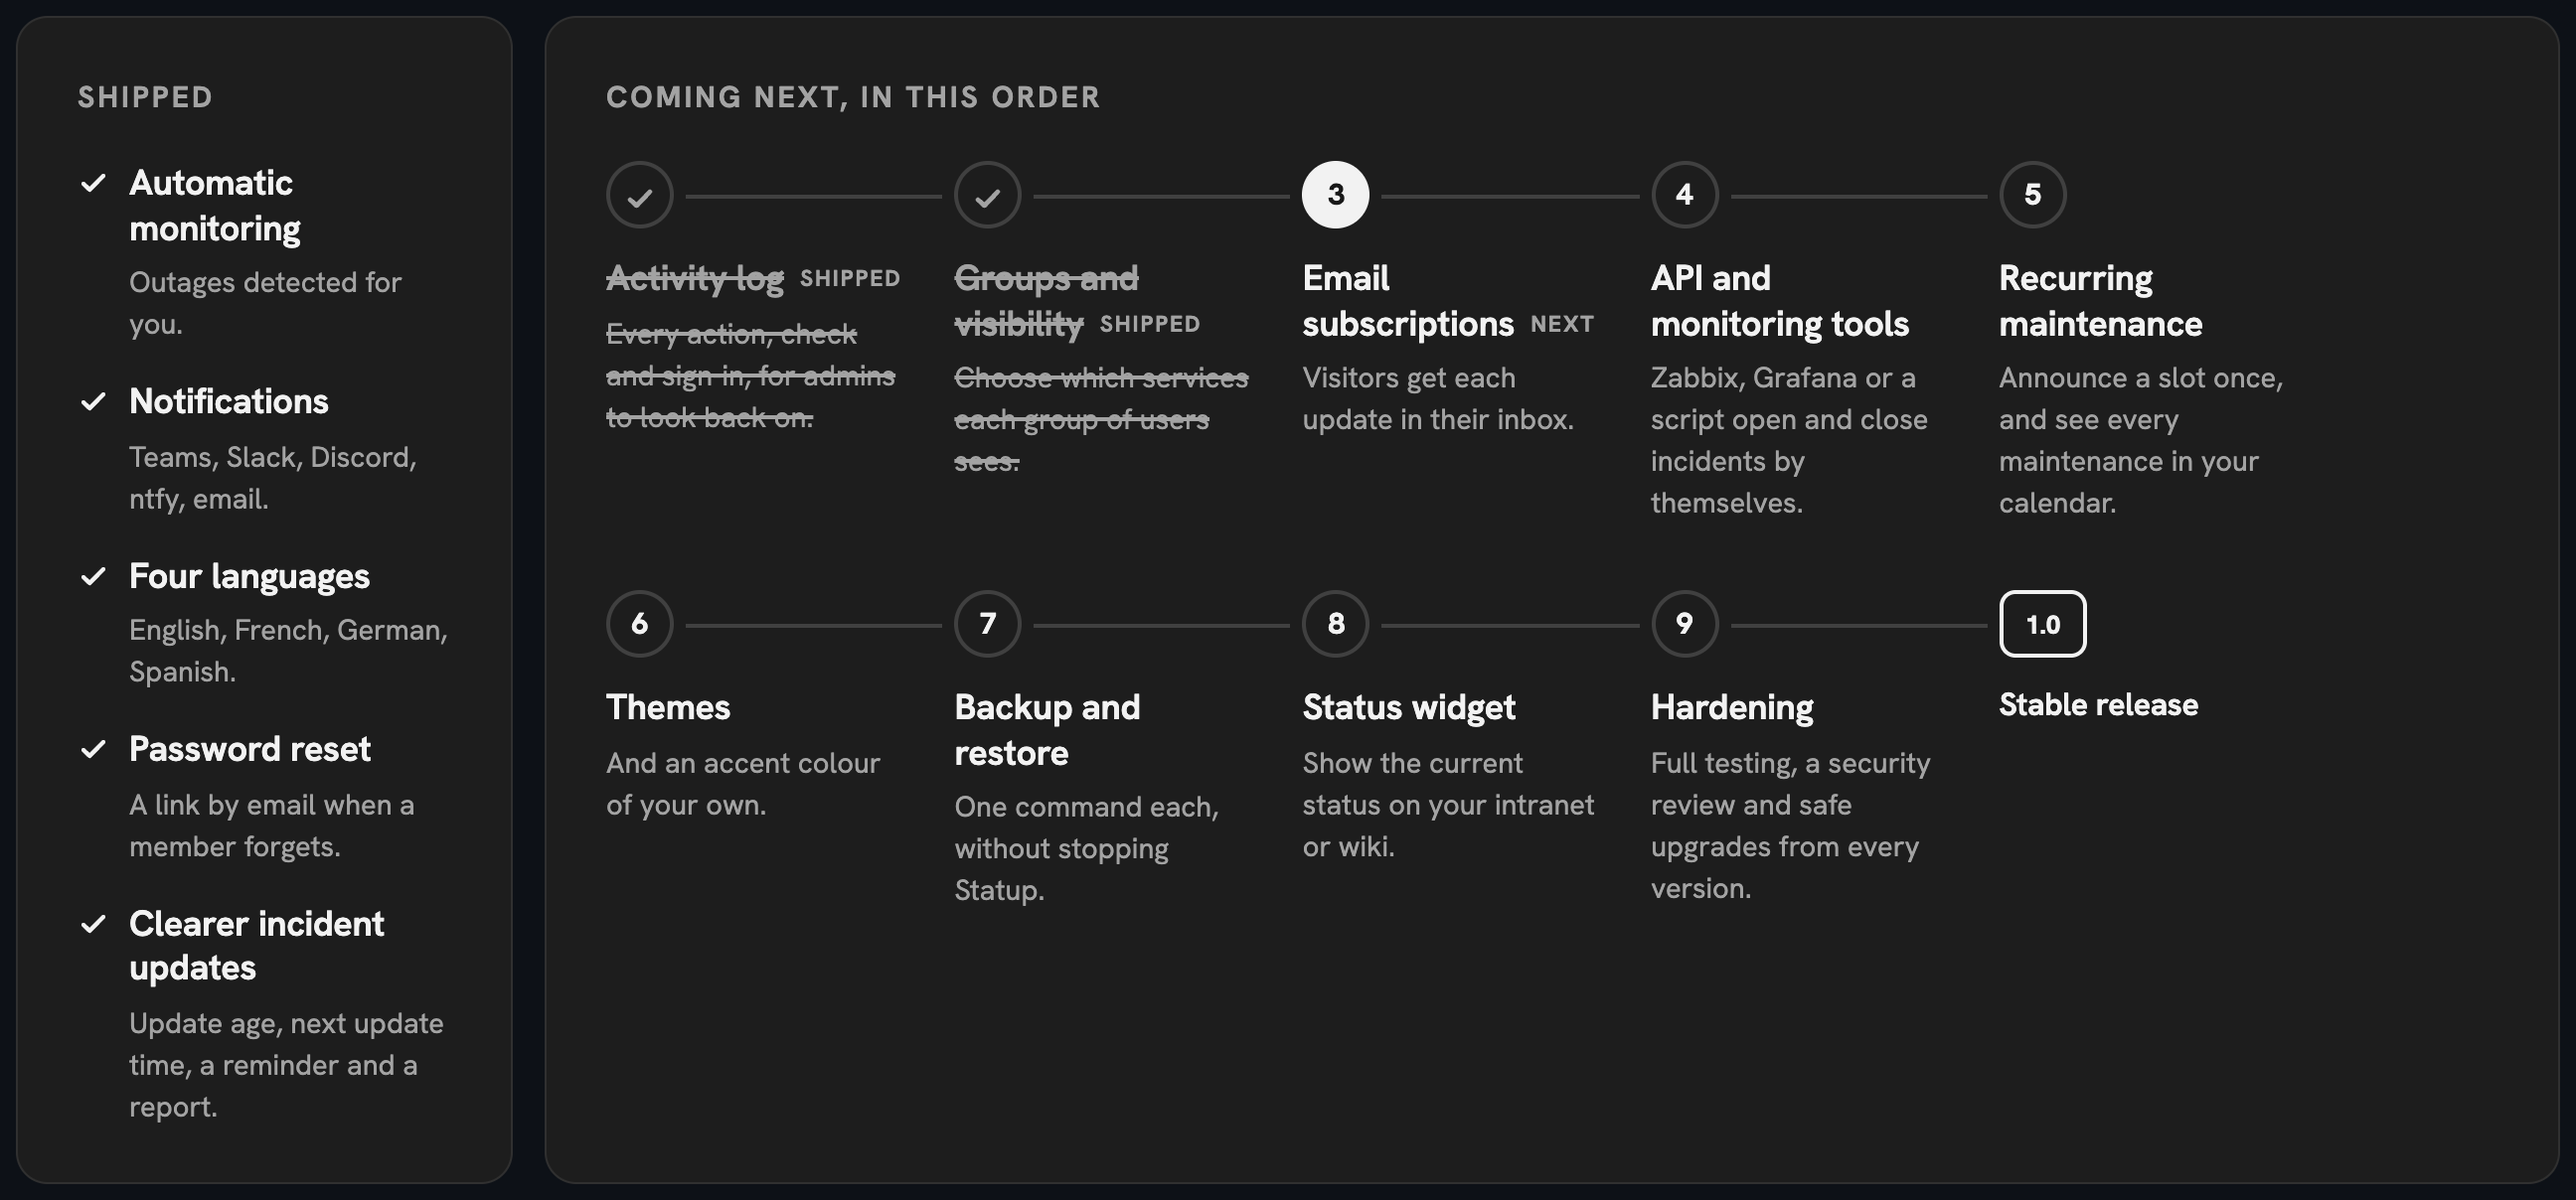
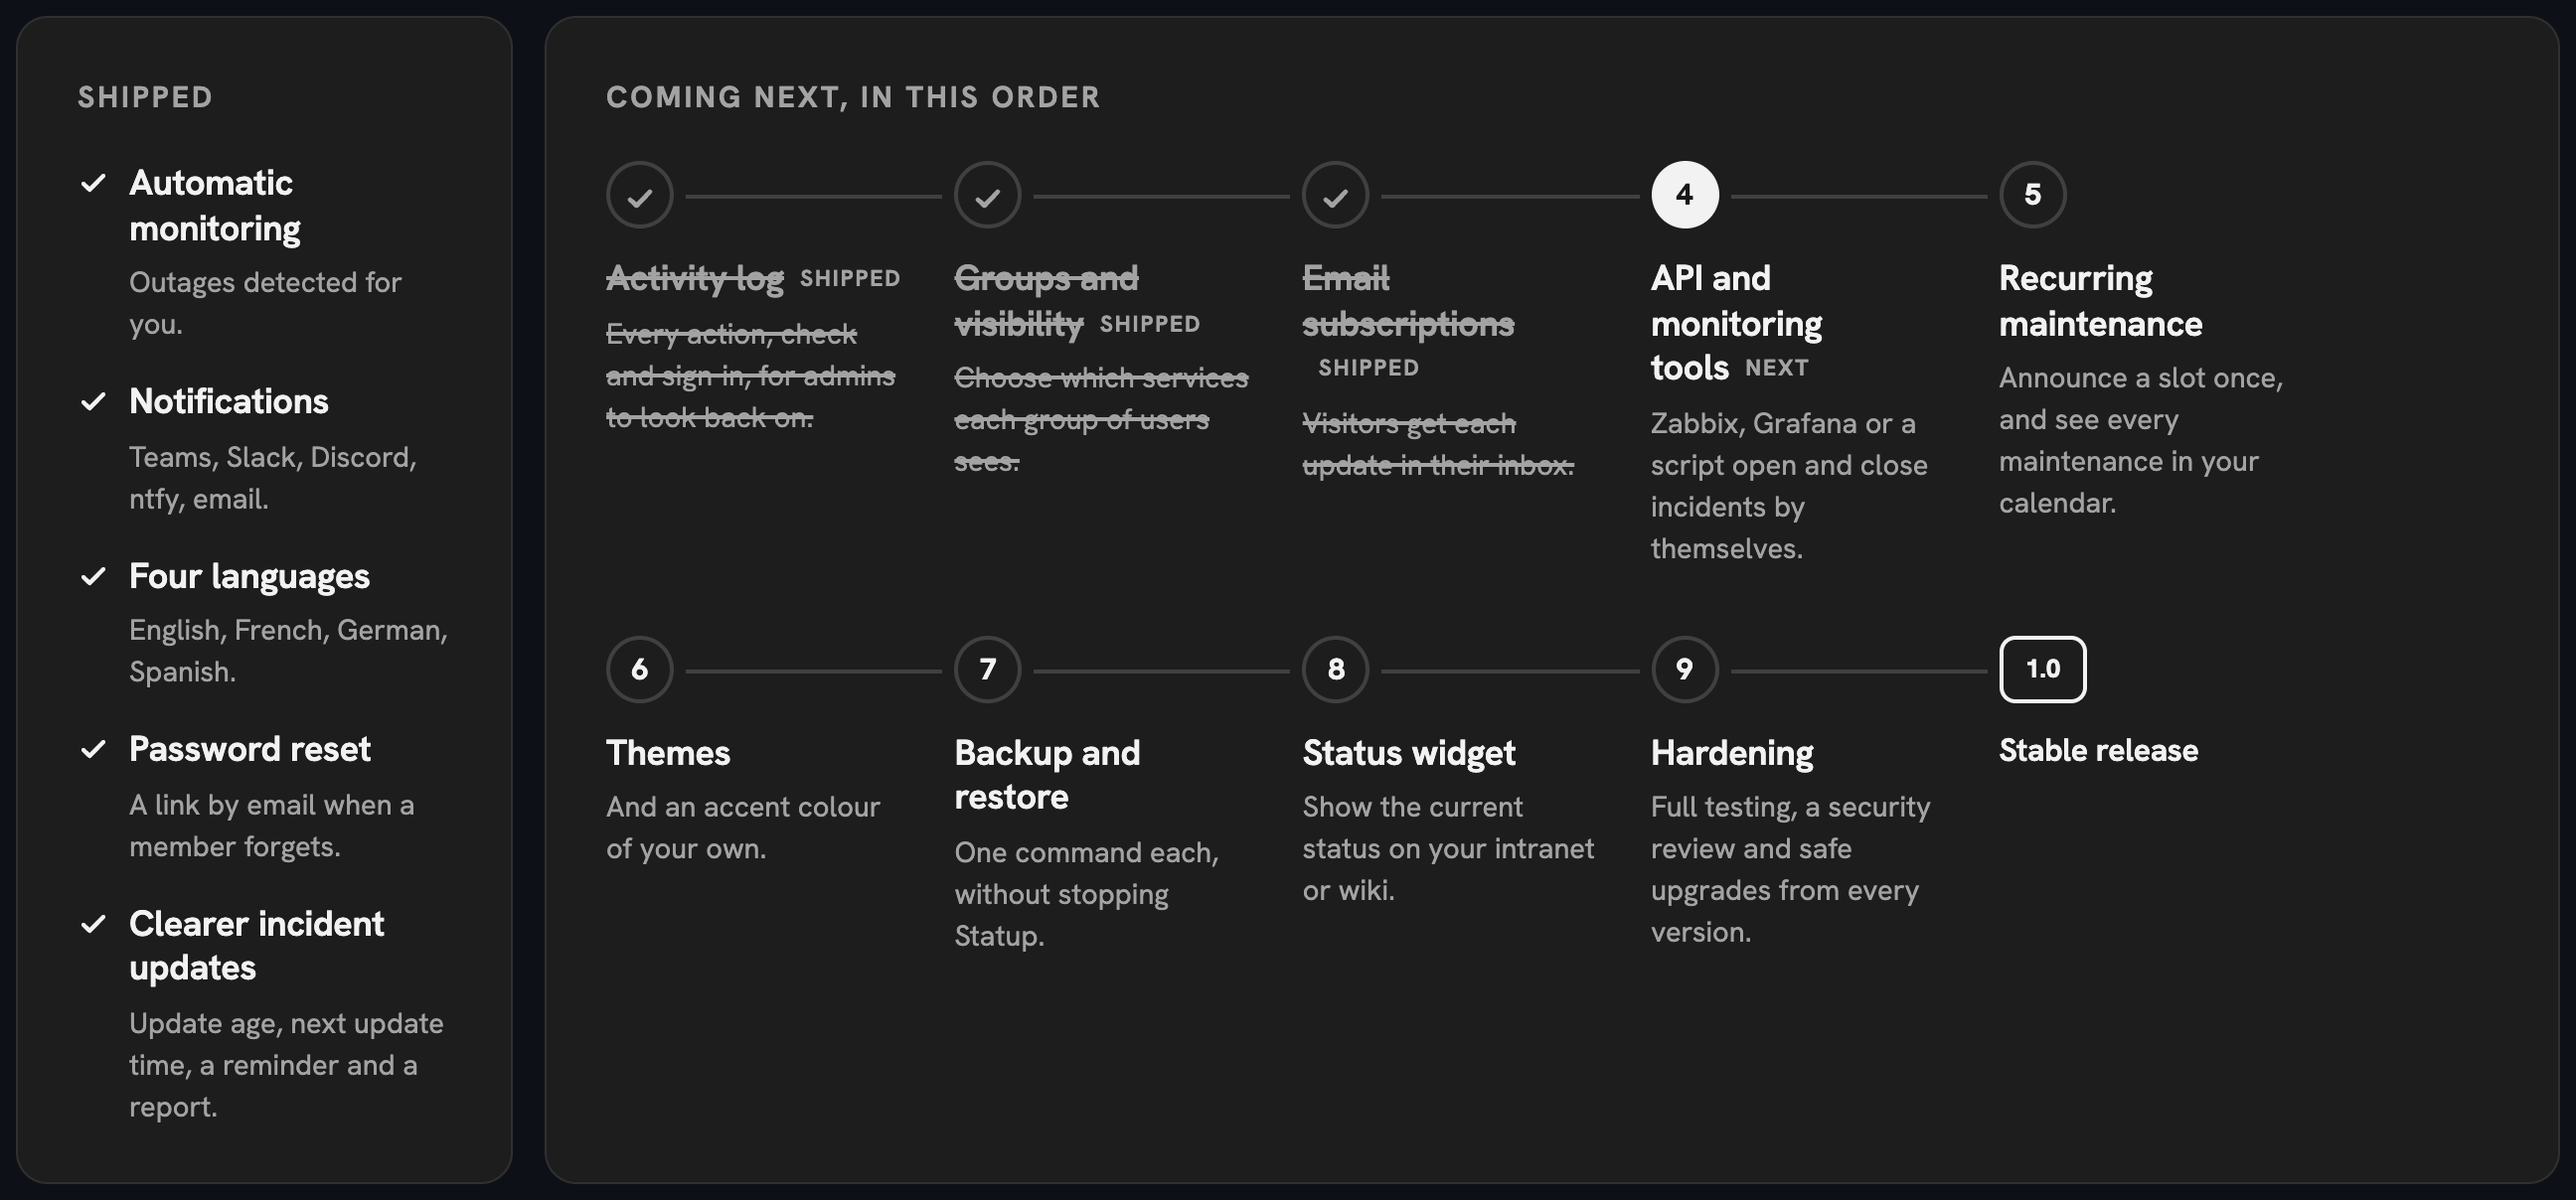
release 0.8.0

diff --git a/README.md b/README.md
@@ -46,7 +46,7 @@ It is a status page you host yourself. Whoever runs a service posts, once, what 
 - **Notices first**: every minute, Statup checks that a site or a server answers, and shows an outage after three minutes without an answer, or the delay set for that service.
 - **Quick to publish**: dated updates, reusable templates and a short report once an incident is resolved; an outage spotted by the checks is declared in one click.
 - **Tells people where they are**: each incident, maintenance and announcement posted to Microsoft Teams, Slack, Google Chat, Discord or Mattermost, to phones through ntfy, by email, or to any tool through a webhook, in the language of each channel.
-- **Easy to follow**: search and filters, a side panel to read without leaving the list, and an Atom feed for feed readers.
+- **Easy to follow**: search and filters, a side panel to read without leaving the list, an Atom feed for feed readers, and an email at each update for those who subscribe.
 - **A record of everything**: a Journal for administrators shows who changed what, sign-ins, outages with their reason and messages that did not leave, kept 90 days and exported as a CSV file.
 - **Your page, your way**: public or members only, your name and logo, blocks you arrange on the page; French, English, German and Spanish, light and dark, accessible.
 
@@ -91,14 +91,14 @@ Add them from the **Team** page: they open the same address. For HTTPS and a nam
 
 <picture>
   <source media="(prefers-color-scheme: dark)" srcset=".github/assets/roadmap-dark.png">
-  <img src=".github/assets/roadmap.png" alt="Roadmap: shipped are automatic monitoring, notifications, four languages, password reset and clearer incident updates; step 1, the activity log, shipped in 0.6.0; step 2, groups and visibility, shipped in 0.7.0; coming next, in order, steps 3 to 9 listed below, then the stable 1.0 release" width="1296">
+  <img src=".github/assets/roadmap.png" alt="Roadmap: shipped are automatic monitoring, notifications, four languages, password reset and clearer incident updates; step 1, the activity log, shipped in 0.6.0; step 2, groups and visibility, shipped in 0.7.0; step 3, email subscriptions, shipped in 0.8.0; coming next, in order, steps 4 to 9 listed below, then the stable 1.0 release" width="1296">
 </picture>
 
 Planned, in this order, without dates:
 
 1. ~~**Activity log**: every action, check and sign-in, for administrators to look back on.~~ Shipped in 0.6.0.
 2. ~~**Groups and visibility**: choose which services and events each group of users sees.~~ Shipped in 0.7.0, with folders of services.
-3. **Email subscriptions**: visitors get each update in their inbox.
+3. ~~**Email subscriptions**: visitors get each update in their inbox.~~ Shipped in 0.8.0.
 4. **API and monitoring tools**: Zabbix, Grafana or a script open and close incidents by themselves.
 5. **Recurring maintenance**: announce a slot once, and see every maintenance in your calendar.
 6. **Themes** and an accent colour.

diff --git a/.github/CHANGELOG.md b/.github/CHANGELOG.md
@@ -2,7 +2,7 @@
 
 All notable changes to Statup are listed here. The project is pre-v1: until 1.0, a minor version may change the interface or the database, and the README asks you to back up before upgrading.
 
-## Unreleased
+## 0.8.0, 2026-10-25
 
 - Email subscriptions. On **Get notified**, a visitor types their address, ticks incidents, maintenance or announcements and confirms through the link emailed to them; a signed-in member subscribes at the address of their account, with nothing to confirm. Each one then receives an email when an incident is opened or a maintenance announced, at each update, when it ends, for its report and for each announcement, in their language and naming only the services they may see. Every email ends with an unsubscribe link, and mail clients may offer their own button when the page is served over https. Administrators see the subscribers from the Alerts page, can remove one, and open subscriptions to visitors there: they are closed on a new instance. Offered only with a mail server (`SMTP_HOST`); the database is upgraded on start.
 - One layout for every screen. A page head holds at most **Arrange** and **New** on the right, or the settings of the page's object in one grey line with **Change**; nothing sits under a title any more. Every list lives on a card whose head gives its title, its count and its one action: **New member** and **New channel** open their form at the head of their card, closed on arrival, and the count of the events list and the Journal moves into the head of their results, beside the Journal's **Export**. On the Services page, **Change order** becomes **Arrange**, as on the dashboard, and **New** offers a service or a folder; the icon library is reached from a service's icon choice, **Manage your icons**, and lists its icons as rows. A folder's name and visibility are saved together from **Change**, a group's **Rename** sits at the right of its name, and an event's report is edited from its own card. Row actions are words, **Disable** and **Delete** in red; cards share one inner edge and one head height; what opens shows the same arrow. Settings drops its help sentences, and the page access setting is called **Page access**, **Members only** or **Public**, everywhere.

diff --git a/documentation/fr/upgrading.md b/documentation/fr/upgrading.md
@@ -21,7 +21,7 @@ Les administrateurs voient la version en service dans les Paramètres, et la plu
 `latest` suit chaque nouvelle version. Pour ne mettre à jour que quand vous le décidez, remplacez `latest` par un numéro de version sous `image:` dans `docker-compose.yml` :
 
 ```yaml
-image: ghcr.io/karl-cta/statup:0.7.2
+image: ghcr.io/karl-cta/statup:0.8.0
 ```
 
 Chaque version et ce qu'elle a changé figurent dans les [notes de version](https://github.com/karl-cta/statup/blob/main/.github/CHANGELOG.md). Statup n'a pas encore atteint sa 1.0 : attendez-vous à des changements d'une version à l'autre, et sauvegardez avant chaque mise à jour.

diff --git a/documentation/en/upgrading.md b/documentation/en/upgrading.md
@@ -21,7 +21,7 @@ Administrators see the running version in Settings, and the newer one once it is
 `latest` follows each new version. To upgrade only when you choose, replace `latest` with a version number under `image:` in `docker-compose.yml`:
 
 ```yaml
-image: ghcr.io/karl-cta/statup:0.7.2
+image: ghcr.io/karl-cta/statup:0.8.0
 ```
 
 Every version and what it changed are in the [changelog](https://github.com/karl-cta/statup/blob/main/.github/CHANGELOG.md). Statup is before its 1.0: expect changes between versions, and back up before each upgrade.
